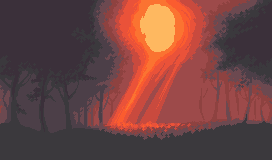
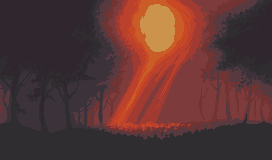
Update Parallax Backgound
-Change Parallax Background Sprite

diff --git a/Scene/PlayScene.cs b/Scene/PlayScene.cs
@@ -80,9 +80,9 @@ public class PlayScene : Scene
         // Create parallax background
         _parallaxBackground = new ParallaxBackground(_graphicsDevice.Viewport);
 
-        _parallaxBackground.AddLayer(_backgroundLayer1, 0.0f); // Sky/clouds move very slowly
-        _parallaxBackground.AddLayer(_backgroundLayer2, 0.3f); // Mountains move at medium speed
-        _parallaxBackground.AddLayer(_backgroundLayer3, 0.6f); // Trees move faster (closer to player)
+        _parallaxBackground.AddLayer(_backgroundLayer1, 0.0f, 1.0f, Vector2.Zero); // Sky/clouds move very slowly
+        _parallaxBackground.AddLayer(_backgroundLayer2, 0.1f, 1.5f, new Vector2(-50,-300)); // Mountains move at medium speed
+        _parallaxBackground.AddLayer(_backgroundLayer3, 0.2f, 2.0f, new Vector2(-100,-800)); // Trees move faster (closer to player)
 
         _song = _content.Load<Song>("ChillSong");
     }
@@ -217,7 +217,7 @@ public class PlayScene : Scene
         }
         
         //Should be hidden
-        _collisionTileMap.Draw(_spriteBatch);
+        //_collisionTileMap.Draw(_spriteBatch);
     }
 
     private void DrawAllObjects()

diff --git a/GameObjects/ParallaxLayer.cs b/GameObjects/ParallaxLayer.cs
@@ -11,11 +11,11 @@ public class ParallaxLayer
     public Rectangle SourceRectangle;
     public float Scale;
 
-    public ParallaxLayer(Texture2D texture, float scrollSpeed, float scale = 1.0f)
+    public ParallaxLayer(Texture2D texture, float scrollSpeed, float scale = 1.0f, Vector2 offset = new Vector2())
     {
         Texture = texture;
         ScrollSpeed = scrollSpeed;
-        Position = Vector2.Zero;
+        Position = Vector2.Zero + offset;
         SourceRectangle = new Rectangle(0, 0, texture.Width, texture.Height);
         Scale = scale;
     }

diff --git a/GameObjects/ParallaxBackground.cs b/GameObjects/ParallaxBackground.cs
@@ -21,9 +21,9 @@ public class ParallaxBackground
         _layers.Add(layer);
     }
 
-    public void AddLayer(Texture2D texture, float scrollSpeed, float scale = 1.0f)
+    public void AddLayer(Texture2D texture, float scrollSpeed, float scale = 1.0f, Vector2 offset = new Vector2())
     {
-        _layers.Add(new ParallaxLayer(texture, scrollSpeed, scale));
+        _layers.Add(new ParallaxLayer(texture, scrollSpeed, scale, offset));
     }
 
     public void Update(GameTime gameTime)

diff --git a/GameObjects/Character/Player.cs b/GameObjects/Character/Player.cs
@@ -554,7 +554,7 @@ namespace FinalComGame
                 }
             }
 
-            if (Singleton.Instance.IsKeyJustPressed(Attack)){
+            if (Singleton.Instance.IsKeyJustPressed(Attack) && !_isClimbing){
                 _isCharging = false;
                 _chargeTime = 0;
                 StartAttack();
